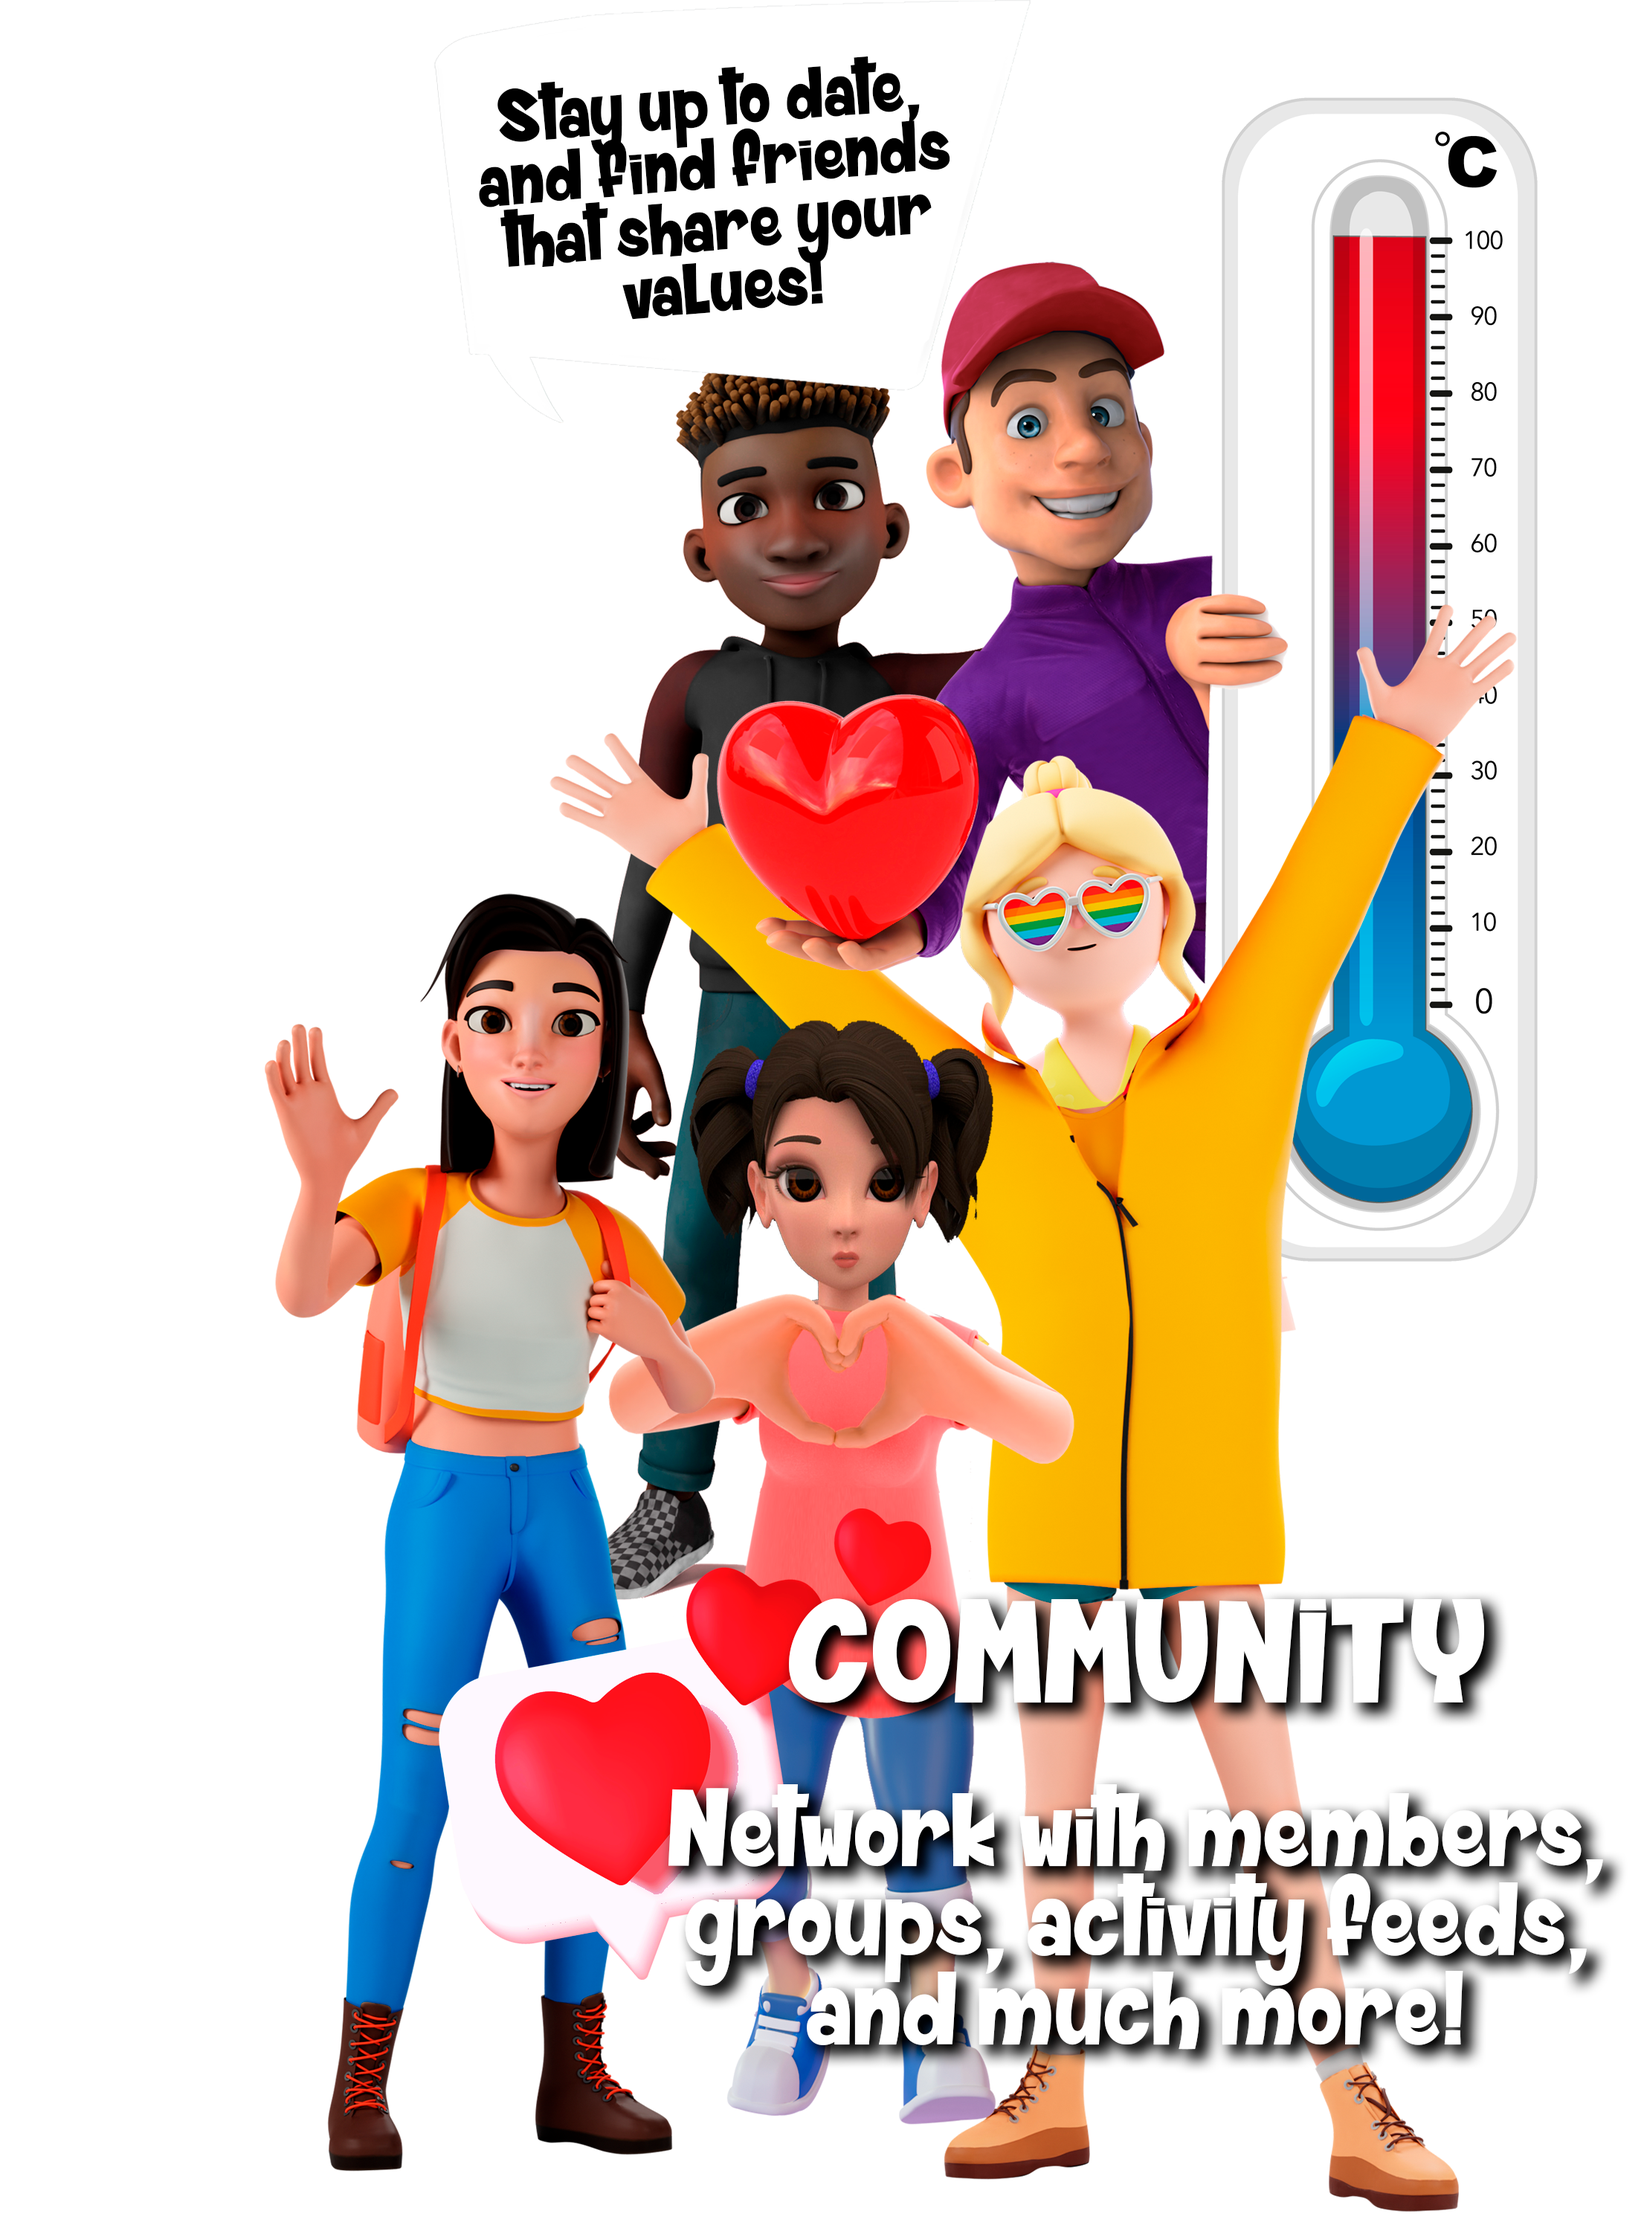
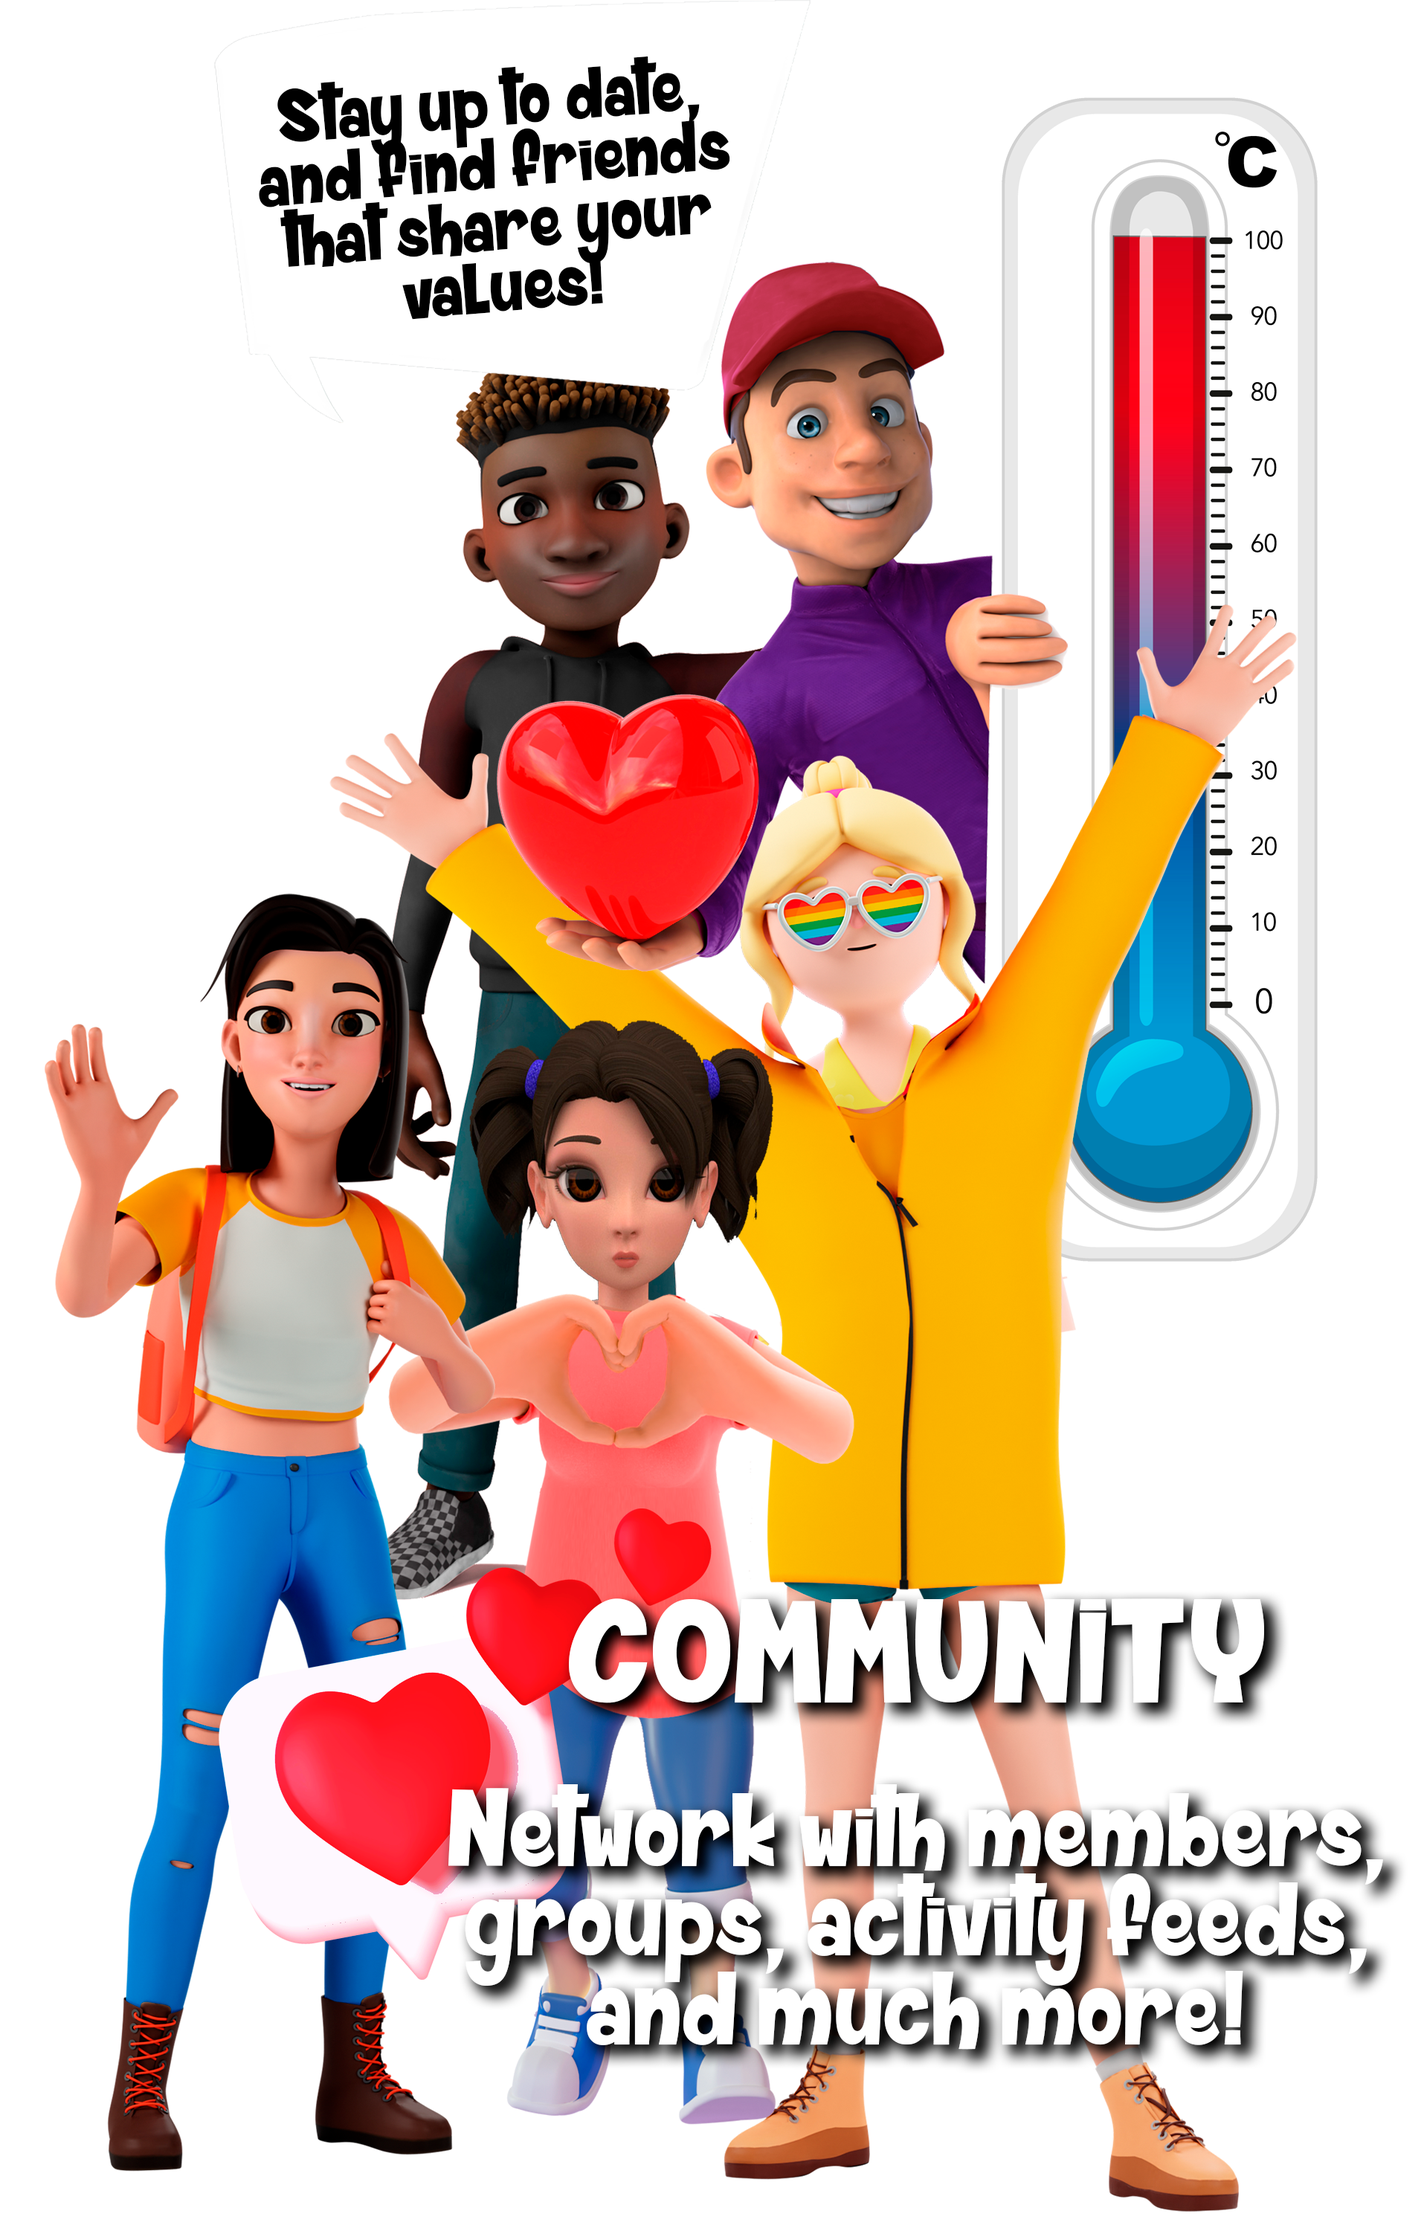
Fix social popup margin-left

diff --git a/src/pages/friends.tsx b/src/pages/friends.tsx
@@ -20,7 +20,7 @@ export default function Friends() {
       <Popup isOpen={isVisible} setIsOpen={setIsVisible} hideOnClickOverlay={false}>
         <>
           <div className='md:w-[82%]'>
-            <Image src='/images/friends/FRIENDS PAGE POPUP.png' width={2211} height={3009} />
+            <Image src='/images/friends/FRIENDS PAGE POPUP.png' width={1915} height={3009} />
           </div>
           <a href='https://friends.dugut.app/' target='_blank'>
             <img
